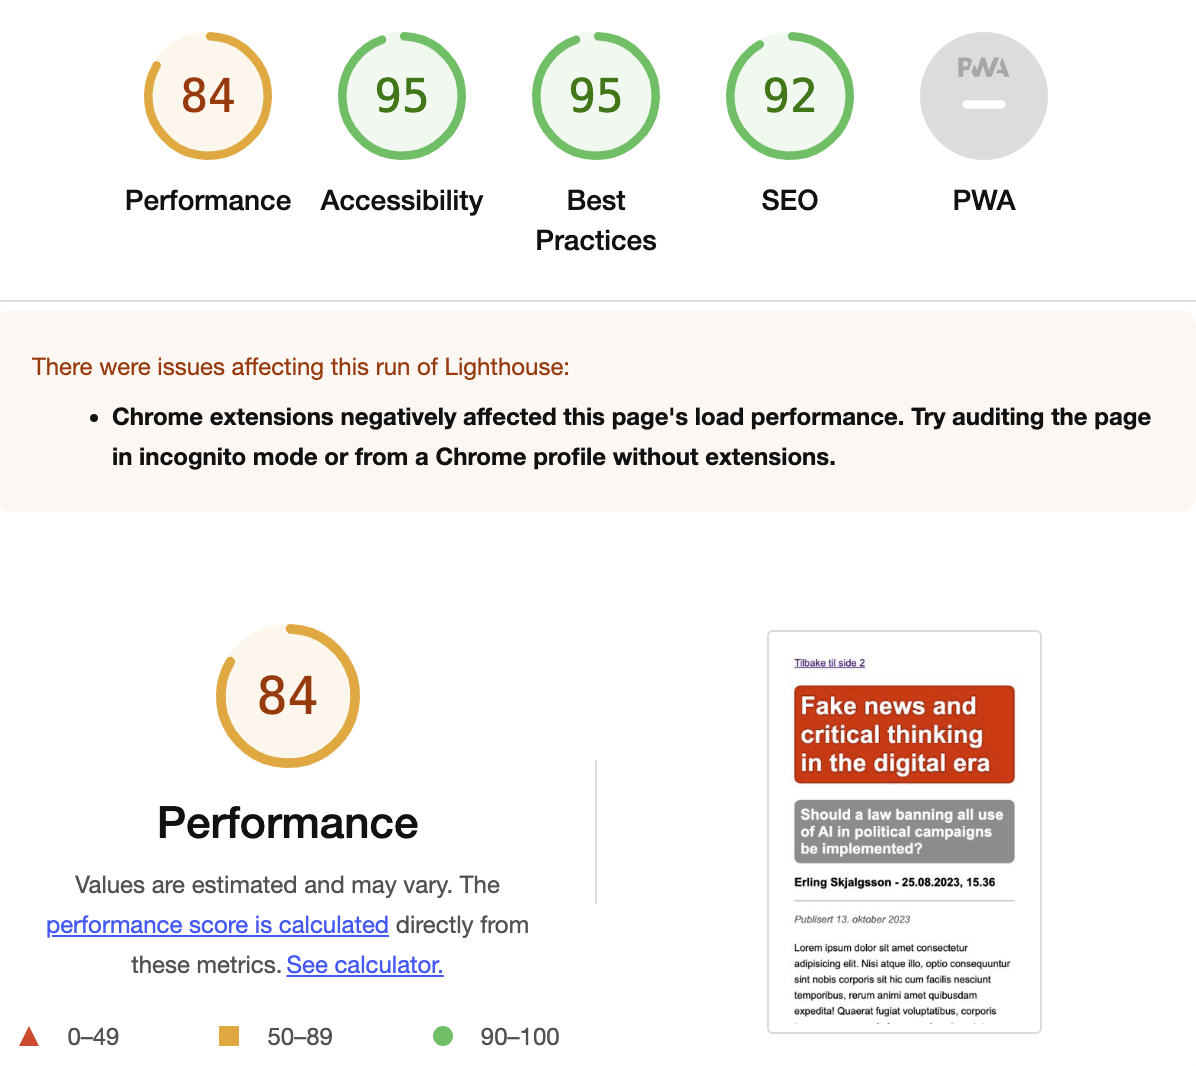
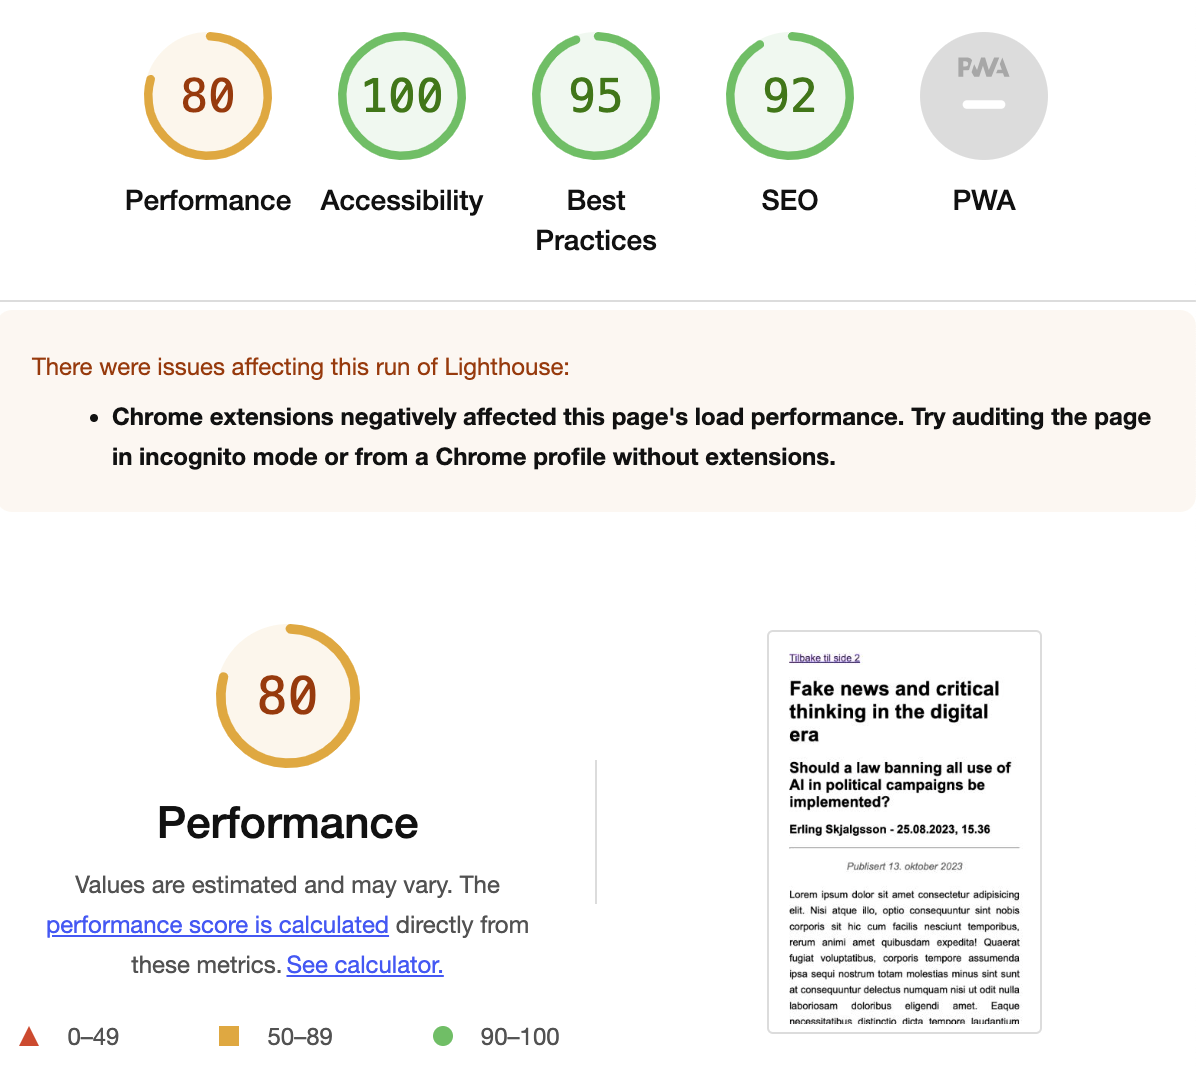
mye tull

diff --git a/main.html b/main.html
@@ -6,17 +6,25 @@
     <title>Side 1</title>
     <link rel="stylesheet" href="css/styles.css">
   </head>
-  <body>
-    <a href="../secondary/second.html">Tilbake til side 2</a>
-      <h1 id="h1-page1">Fake news and critical thinking in the digital era</h1>
-      <h2 id="h2-page1">Should a law banning all use of AI in political campaigns be implemented?</h2>
-      <h3>Erling Skjalgsson - 25.08.2023, 15.36</h3>
+    <body>
+    <ul> 
+      <li><a href="main.html">Hjem</a></li>
+      <li><a href="/secondary/second.html">Neste side</a></li>
+    </ul>
+      <h1 class="page-title">Fake news and critical thinking in the digital era</h1>
+      <h2>Should a law banning all use of AI in political campaigns be implemented?</h2>
+      <h3 id="forfatter-navn">Erling Skjalgsson - 25.08.2023, 15.36</h3>
       <hr/>
-      <p class="article-meta">Publisert 13. oktober 2023</p>
-
-      <p>Lorem ipsum dolor sit amet consectetur adipisicing elit. Nisi atque illo, optio consequuntur sint nobis corporis sit hic cum facilis nesciunt temporibus, rerum animi amet quibusdam expedita! Quaerat fugiat voluptatibus, 
-        corporis tempore assumenda ipsa sequi nostrum totam molestias minus sint sunt at consequuntur delectus numquam nisi ut odit nulla laboriosam doloribus eligendi amet. Eaque necessitatibus distinctio dicta tempore laudantium quasi aut, aliquam iste ipsum ad, sequi dignissimos, aliquid odio! Quae sint vel odio ipsam molestias rerum quis, commodi eligendi ullam voluptates tenetur autem eius asperiores vitae perferendis eos? 
-        Autem adipisci architecto odit vel, vero, officiis quibusdam fugit quasi delectus ad asperiores consequatur exercitationem excepturi voluptatum. Natus unde repellat explicabo minima ipsam amet exercitationem nesciunt, accusamus quibusdam perspiciatis sunt officiis similique molestias impedit nulla sequi quod placeat veniam obcaecati distinctio qui! Architecto sed vitae temporibus ad assumenda, repellat aperiam eaque, nihil neque amet iusto pariatur tenetur consequuntur quidem! Eius, suscipit magni?
+      <h4>Publisert 13. oktober 2023</h4>
+      <p>
+        Error quasi quos laboriosam, officia consequuntur
+        reiciendis, ratione deserunt iste id quae fuga explicabo unde, itaque
+        asperiores tempora minus sunt neque eligendi ipsam tenetur nam illo
+        aliquid corporis saepe? Numquam voluptatem tempora, perspiciatis laborum
+        nostrum asperiores labore deserunt illo enim soluta quia facilis,
+        tempore ut necessitatibus, nihil consequatur fugit mollitia neque quam.
+        Nihil mollitia ullam quis minus cupiditate quasi, dolorem, ex architecto
+        ducimus saepe, voluptatum tenetur.
       </p>
       <h2>Lorem ipsum dolor sit amet.</h2>
       <p>
@@ -41,6 +49,13 @@
         quaerat deleniti? Veniam voluptatum minus est blanditiis rerum nihil
         quisquam fugit mollitia fugiat doloribus odio, similique quaerat tempora
         odit ea animi, libero harum rem distinctio nesciunt itaque recusandae.
+      
+      </p>
+      <img src="https://media.istockphoto.com/id/1438080645/photo/concept-of-sending-secure-e-mail.jpg?s=2048x2048&w=is&k=20&c=BoiwlknI8AF8srR8VjVHGhpYOcMzkSiXyRBkPvjaViA=" alt="Cyberangrep">
+      <p class="article-meta">iStock Credit: dem10</p>
+      
+      <h2>Lorem ipsum dolor sit.</h2>
+      <p> 
         Natus voluptatum soluta optio ad adipisci commodi laboriosam, accusamus
         consequuntur, quos reprehenderit modi. Repudiandae illo et nam, qui
         exercitationem minima hic similique libero est ab vero. Praesentium
@@ -53,7 +68,11 @@
         labore quas omnis ipsum iste fugiat! Tempora, omnis cum? Recusandae
         deserunt, quasi ducimus animi, cum dolore dolorem exercitationem eveniet
         quis eligendi pariatur quaerat neque veniam aspernatur facere sit
-        nostrum vero tempora id iure error nam a! Minima vero beatae et, culpa
+        nostrum vero tempora id iure error nam a! 
+
+        <h2>Lorem, ipsum dolor.</h2>
+        <p>
+          Minima vero beatae et, culpa
         perferendis neque reprehenderit suscipit nemo at vitae quidem
         exercitationem nihil porro aut tenetur obcaecati sunt officia corrupti
         asperiores optio mollitia, a ducimus temporibus. Iste, expedita libero
@@ -63,21 +82,8 @@
         numquam quis placeat itaque dolore. Dignissimos blanditiis aliquid omnis
         eum esse eaque eius sit veniam iure voluptatum saepe nam, cum reiciendis
         architecto, quos exercitationem alias a.
-      </p>
-      <img src="https://media.istockphoto.com/id/1438080645/photo/concept-of-sending-secure-e-mail.jpg?s=2048x2048&w=is&k=20&c=BoiwlknI8AF8srR8VjVHGhpYOcMzkSiXyRBkPvjaViA=" alt="Cyberangrep">
-      <p class="article-meta">iStock Credit: dem10</p>
-      
-      <h2>Lorem ipsum dolor sit.</h2>
-      <p> Lorem, ipsum dolor sit amet consectetur adipisicing elit. Dolorum fuga incidunt voluptates ex id iusto voluptatibus aut, libero laborum reprehenderit magnam, illum earum consectetur vero cupiditate exercitationem iure sed quia itaque error neque! Dolorum, voluptatibus dolore. 
-        Natus in porro, accusamus excepturi similique, accusantium adipisci molestias sapiente quisquam aperiam repudiandae quo tempora, quas exercitationem. Atque assumenda debitis dolores quaerat quibusdam, accusamus eius laborum perferendis! Totam sapiente, quibusdam vitae, deleniti enim ipsa consequuntur velit, nisi blanditiis cumque ea a. 
-        Reiciendis officia totam quia aliquid facere odit nobis, rem adipisci repellat aliquam, sapiente alias cupiditate ipsum sequi voluptatem beatae distinctio cum harum ea.</p>
-
-        <h2>Lorem, ipsum dolor.</h2>
-        <p>Lorem ipsum dolor sit amet consectetur adipisicing elit. Exercitationem quas necessitatibus eveniet quaerat, nemo eius corrupti quibusdam provident dolor soluta autem nihil aliquid voluptate iure hic sed quis, quos omnis? Aliquam reiciendis atque ipsa pariatur, enim consequatur ipsum voluptatem exercitationem suscipit voluptates quo rerum expedita itaque hic. Incidunt eum optio veritatis exercitationem sequi consequuntur laborum vel molestiae tenetur temporibus et assumenda eos nostrum, inventore totam necessitatibus neque qui iusto. 
-            In ea rem sit eius nihil modi eligendi eos quia fugiat hic beatae dicta magni ipsum ab est laudantium perspiciatis facilis accusamus earum error animi ad, architecto voluptates. 
-            Suscipit iure quibusdam culpa voluptate nostrum ipsum porro, libero error aliquid, velit recusandae assumenda quo eum eaque, veniam illum quis sint placeat ratione impedit adipisci pariatur? Qui et praesentium veniam, quas nam dolorum inventore nisi, impedit suscipit cupiditate corrupti hic laudantium saepe explicabo rem quae laborum! Labore nam vero deleniti nostrum id? Earum sequi veritatis saepe adipisci quas molestiae nam velit unde sapiente expedita ut ipsam itaque laudantium quis sunt nemo esse, accusamus, dolores excepturi molestias voluptas quidem modi deleniti? Atque reprehenderit laudantium alias accusamus quod molestiae consequatur sint cumque facilis nihil ratione delectus autem ipsum ducimus possimus culpa repellat dolorum libero unde, eius facere. 
-            Iusto laboriosam culpa minima, eligendi quasi voluptas qui at debitis explicabo, officiis praesentium distinctio quidem. Consectetur pariatur voluptatum nesciunt autem. Sapiente pariatur, nisi doloremque voluptate molestias magni culpa error adipisci dolorem iusto. Minus officiis nihil, accusamus vel quaerat eos odio aliquam aspernatur fugit delectus nam ducimus cupiditate facere.</p>
+        </p>
     </div>
   </div>
-  </body>
+</body>
 </html>

diff --git a/secondary/second.html b/secondary/second.html
@@ -1,59 +1,62 @@
 <!DOCTYPE html>
 <html lang="en">
-  <head>
-    <meta charset="UTF-8" />
-    <meta name="viewport" content="width=device-width, initial-scale=1.0" />
-    <title>Second Page</title>
-    <link rel="stylesheet" href="../css/styles.css"> <!-- Sørg for at denne lenker til CSS-filen din -->
-  </head>
-  <body>
-    <nav class="nav-bar">
-      <a class="nav-text" href="../main.html">Side 1</a>
-    </nav>
-    
-    <h1>DATA1200</h1>
-    <h2>Læringsutbytte</h2>
-    <p>
-      <ul>
-        <li>Kunnskap</li>
-        <p>Studenter: 
-          <ul class="info-list"> 
-            <li>Kjenner den sentrale rollen nett og internett har i moderne databehandling.</li>
-            <li>Er kjent med relevante programmeringsverktøy og repositories med versjonskontroll.</li>
-            <li>Har grunnleggende kunnskap om og erfaring med samarbeid innen programvareutvikling som arbeidsform.</li>
-          </ul>
-        </p>
-        <li>Ferdigheter</li>
-        <p> Studenter:
-          <ul class="info-list">
-            <li>Kan lage brukervennlige og universielt utformede løsninger i tråd med lovverket.</li>
-            <li>Bygge nettsider med nøkkelteknologiene for web (HTML, CSS).</li>
-            <li>Kan bruke gjeldende utviklingsverktøy og versjonskontroll.</li>
-            <li>Kan planlegge, organisere og gjennomføre mindre IT-prosjekter.</li>
-          </ul>
-        </p>
-        <li>Generell kompetanse</li>
-        <p> Studenter:
-            <li>Kan formidle resultat av et utviklingsarbeid.</li>
-            <li>Kan samarbeide i grupper.</li>
-          </ul>
-        </p>
-      </ul>
-    </p>
-    <h3> Accessibility-test: </h3>
-    <img src="../css//bilde/bilde.png" alt="Accessibility-test">
-    <div>
-      <footer>
-      <h4>Deltakere</h4>
-      <li>Henny Rushfeldt</li>
-      <p><a href="mailto:herus7016@oslomet.no">herus7016@oslomet.no</a></p>
-    
-      <li>Zoey Retzius</li>
-      <p><a href="mailto:zoret5306@oslomet.no">zoret5306@oslomet.no</a></p>
-    
-      <li>Hanna Linnea Østern</li>
-      <p><a href="mailto:haost7167@oslomet.no">haost7167@oslomet.no</a></p>
-      </footer>
-    </div>
-  </body>
+
+    <head>
+        <link rel="stylesheet" href="../main.css"/>
+        <meta charset="UTF-8"/>
+        <meta name="viewport" content="width=device-width, initial-scale=1.0"/>
+        <title>Læringsutbytte</title>
+    </head>
+     
+    <body>
+   <nav>
+    <ul>
+      <li><a href="/main.html"> Hjem </a></li>
+    </ul>
+   </nav>
+    </nav>    
+        <div class="learning-outcomes">
+            <h1 class="page-title">DATA1200 - Læringsutbytte</h1>
+            <h2 class="section-title">Læringsutbytte</h2>
+            <p class="description">
+                Etter å ha fullført dette kurset, har studenten definert følgende læringsutbytte i form av kunnskap, 
+                ferdigheter og generell kompetanse:
+            </p>
+            <h3 class="sub-section-title">Kunnskap</h3>
+            <ul class="list">
+                <li>Kjenner den sentrale rollen nett og internett har i moderne databehandling.</li>
+                <li>Er kjent med relevante programmeringsverktøy og repositories med versjonskontroll.</li>
+                <li>Har grunnleggende kunnskap om og erfaring med samarbeid innen programvareutvikling.</li>
+            </ul>
+            <h3 class="sub-section-title">Ferdigheter</h3>
+            <ul class="list">
+                <li>Kan lage brukervennlige og universielt utfordrende løsninger i tråd med lovverket.</li>
+                <li>Bygge nettsider med nøkkelteknologiene for web (HTML, CSS).</li>
+                <li>Kan bruke gjeldende utviklingsverktøy og versjonskontroll.</li>
+                <li>Kan planlegge, organisere og gjennomføre mindre IT-prosjekter.</li>
+            </ul>
+            <h3 class="sub-section-title">Generell kompetanse</h3>
+            <ul class="list">
+                <li>Kan formidle resultat av et utviklingsarbeid.</li>
+                <li>Kan planlegge, organisere og gjennomføre mindre IT-prosjekter.</li>
+            </ul>
+        </div>
+
+        <img class="bilde-class" src="../bilde/bilde.png" alt="Læringsutbytte bilde"/>
+
+        <footer>
+            <h4>Deltakere</h4>
+            <ul class="contributors-list">
+                <li>Henny Rushfeldt -
+                    <a href="mailto:herus7016@oslomet.no">herus7016@oslomet.no</a>
+                </li>
+                <li>Zoey Retzius -
+                    <a href="mailto:zoret5306@oslomet.no">zoret5306@oslomet.no</a>
+                </li>
+                <li>Hanna Linnea Østern -
+                    <a href="mailto:haost7167@oslomet.no">haost7167@oslomet.no</a>
+                </li>
+            </ul>
+        </footer>
+    </body>
 </html>

diff --git a/css/styles.css b/css/styles.css
@@ -1,72 +1,67 @@
 /* Oppsett som ligner en avisartikkel */
 body {
-    max-width: 800px; /* Begrenser bredden for å etterligne avisoppsett */
- 
-    padding: 20px;
-    font-family: Arial, sans-serif;
-  }
-  
-
-#h1-page1 {
-  font-size: 2.5em;
-  background-color: red;
-  color: white;
-  padding: 10px;
-  border-radius: 10px;
+  max-width: 800px; /* Begrenser bredden for å etterligne avisoppsett */
+  margin: 0 auto; /* Sentrerer elementet horisontalt */
+  padding: 20px;
+  font-family: 'Arial', sans-serif;
 }
 
-#h2-page1 {
-  font-size: 1.5em;
-  background-color: rgb(153, 150, 150);
-  color: white;
-  padding: 10px;
-  border-radius: 10px;
+#page-title {
+  font-family: "Times New Roman", Times, serif;
+  font-style: italic;
+  color: #0000;
+  font-size: larger;
 }
 
-.nav-bar {
-  background-color: #cf6e36;
-  padding: 10px;
-  text-align: center; /* Aligns the links to the center */
+#forfatter-navn {
+  color: rgb(25, 58, 101)
 }
 
-.nav-text {
-  text-decoration: none;
-  color: #333;
-  padding: 10px;
-  margin: 0 10px; /* Adds some space between the links */
+/* Teksten (som avisartikkelens innhold) */
+p {
+  font-size: 1.0em; /* Skriftstørrelse for teksten */
+  line-height: 1.6; /* Linjehøyde for bedre lesbarhet */
+  margin-bottom: 20px; /* Avstand mellom avsnittene */
+  text-align: justify; /* Justerer teksten */
+  font-family: Arial, Helvetica, sans-serif;
 }
 
-  
-  /* Teksten (som avisartikkelens innhold) */
-  p {
-    font-size: 1.0em; /* Skriftstørrelse for teksten */
-    line-height: 1.6; /* Linjehøyde for bedre lesbarhet */
-    margin-bottom: 20px; /* Avstand mellom avsnittene */
-  }
-  
-  .article-meta {
-    font-style: italic;
-    color: #666; /* Grå farge for meta-informasjon */
-  }
-
-
-
-.secondbox {
-  background-image: url("../css/image.png");
-  background-size: cover;
-    width: 700px;
-    height: 700px;
-    font-size: 1.2em;
+.article-meta {
+  font-style: italic;
+  color: #666; /* Grå farge for meta-informasjon */
+  text-align: center; /* Sentrerer meta-informasjonen */
 }
 
-img {
-    display: block;
-    max-width: 100%;
-    height: auto;
-    margin-bottom: 20px;
+
+.bilde-class {
+  display: block;
+  max-width: 50%; /* Sørger for at bildet ikke overstiger sin opprinnelige størrelse */
+  height: auto; /* Forhindrer forvrengning av bildet */
+  margin: 10px auto; /* Sentrerer bildet og legger til litt plassering over og under bildet */
 }
- 
+ img{
+  max-width: 800px;
+ }
 
+nav {
+  background-color: #dd952f;
+  width: 100%;
+}
 
+nav ul {
+  display: flex;
+  justify-content: space-around;
+  padding: 10px 0;
+}
 
-  
+nav li {
+  margin: 0 10px;
+}
+nav a {
+  color: #0000;
+  font-weight: bold;
+}
+
+nav a.hover {
+  color: #ffcc00;
+}
